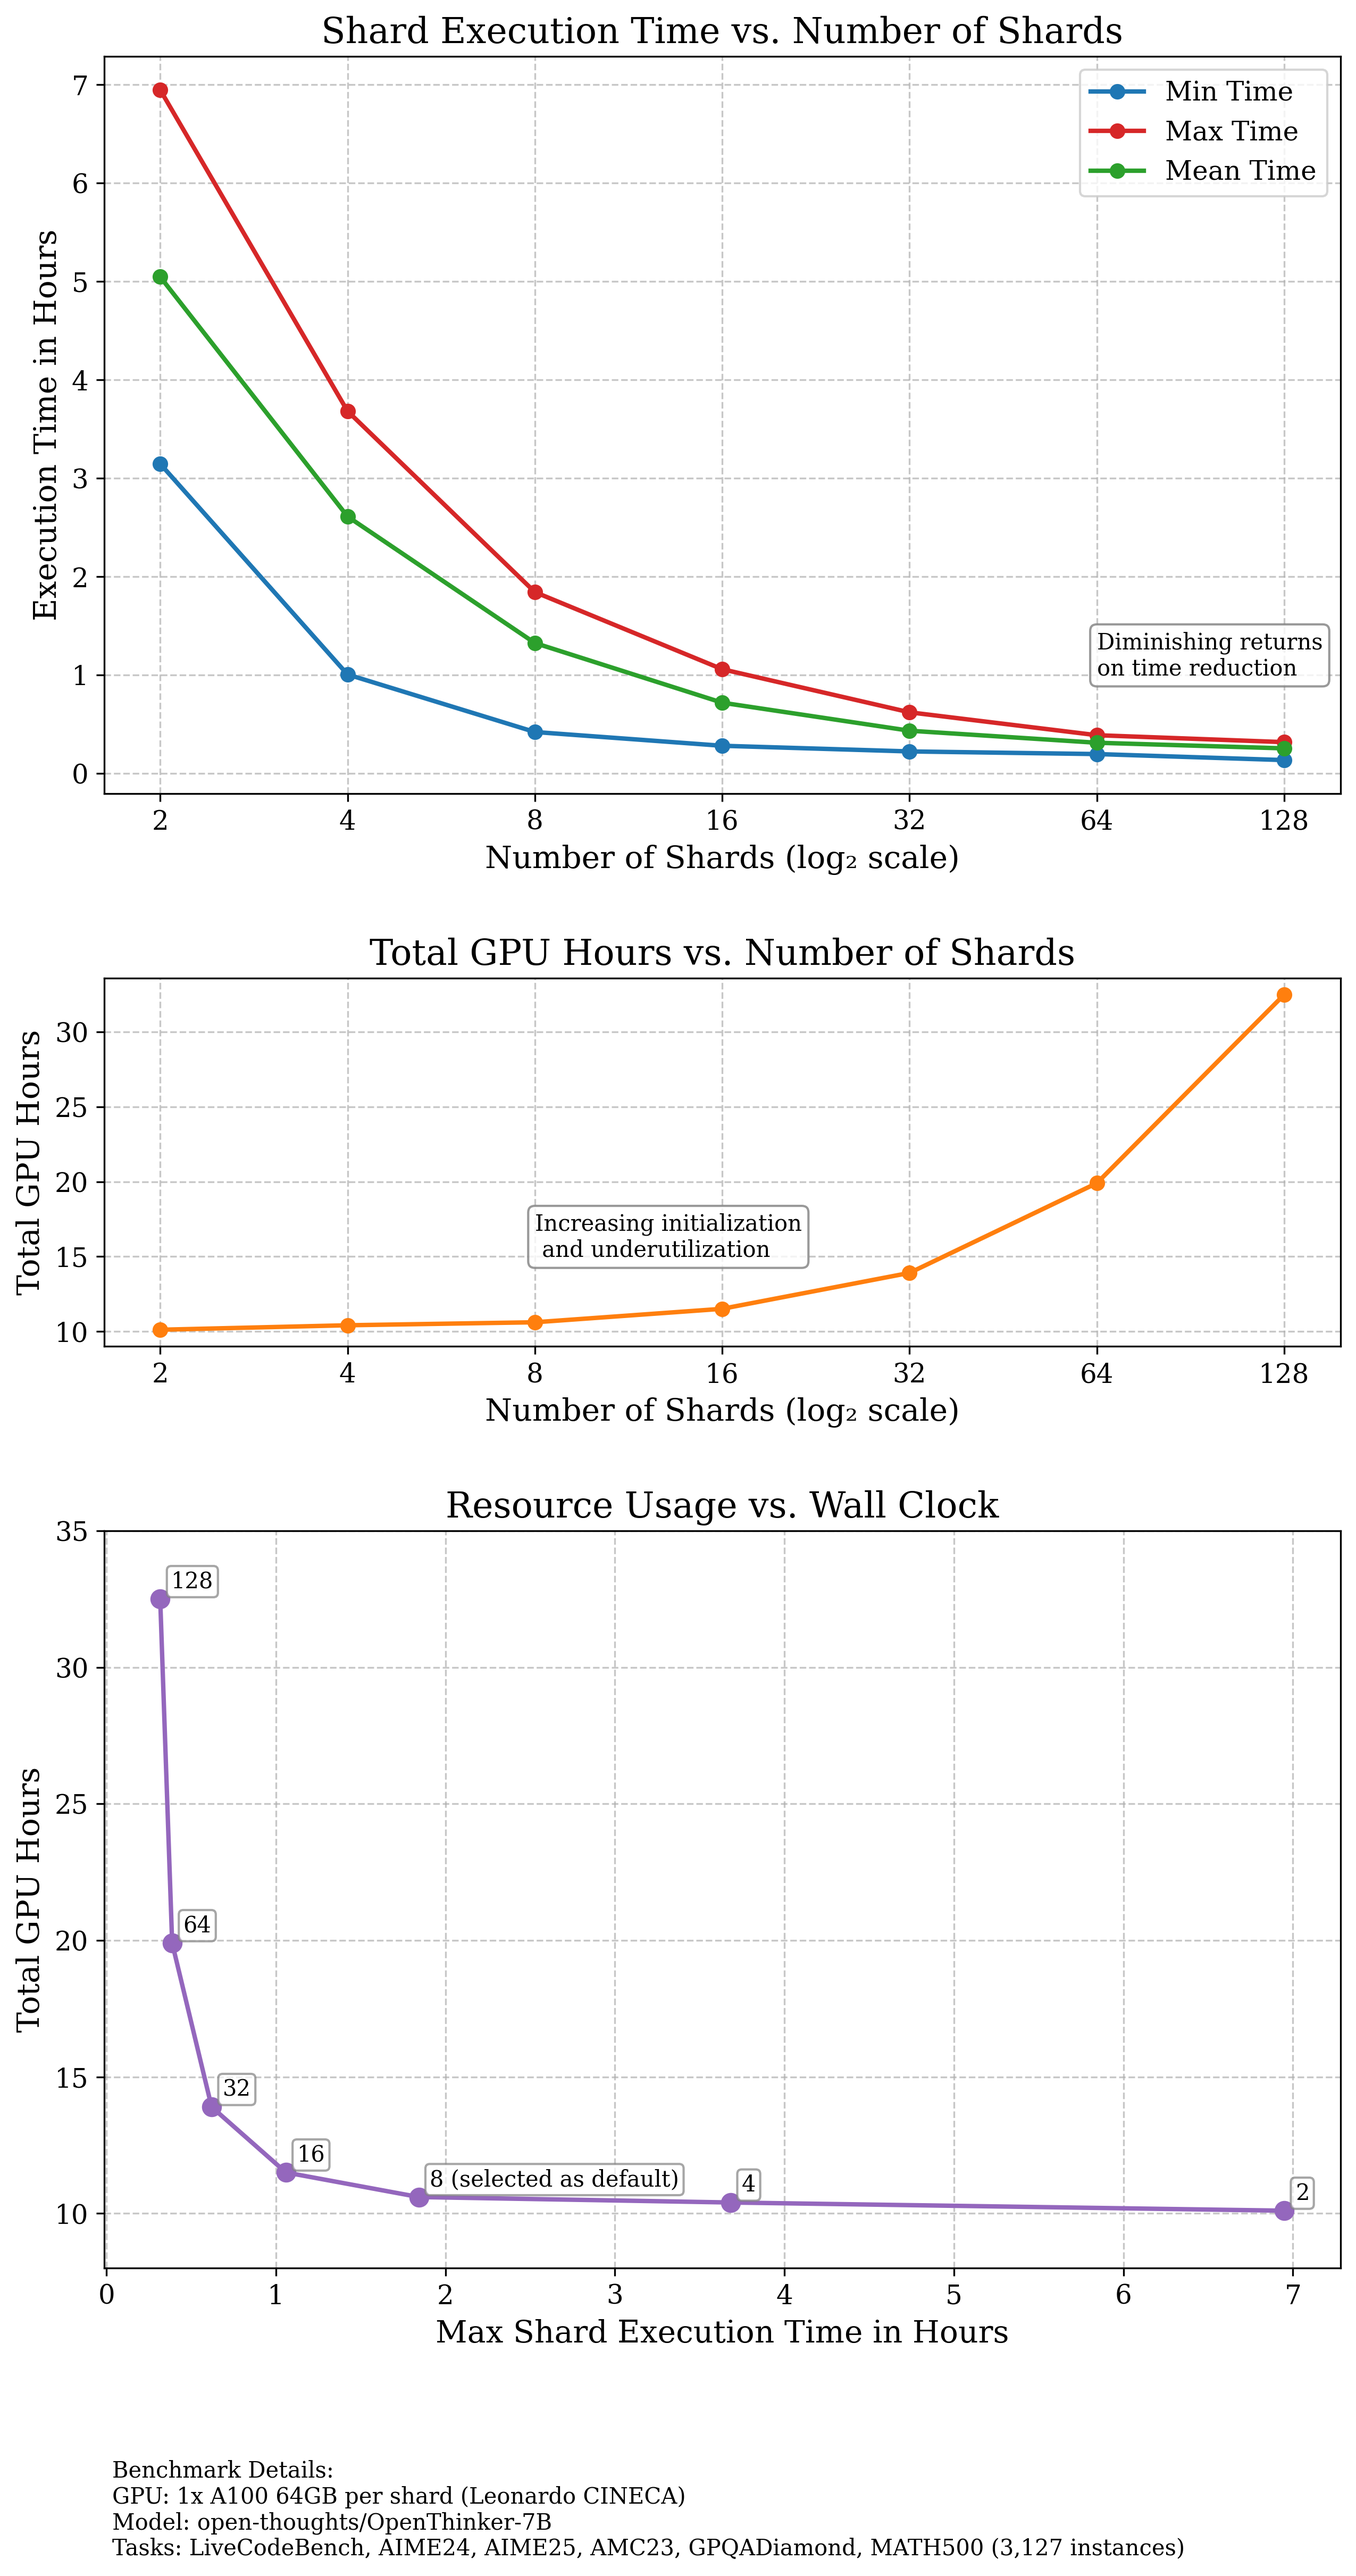
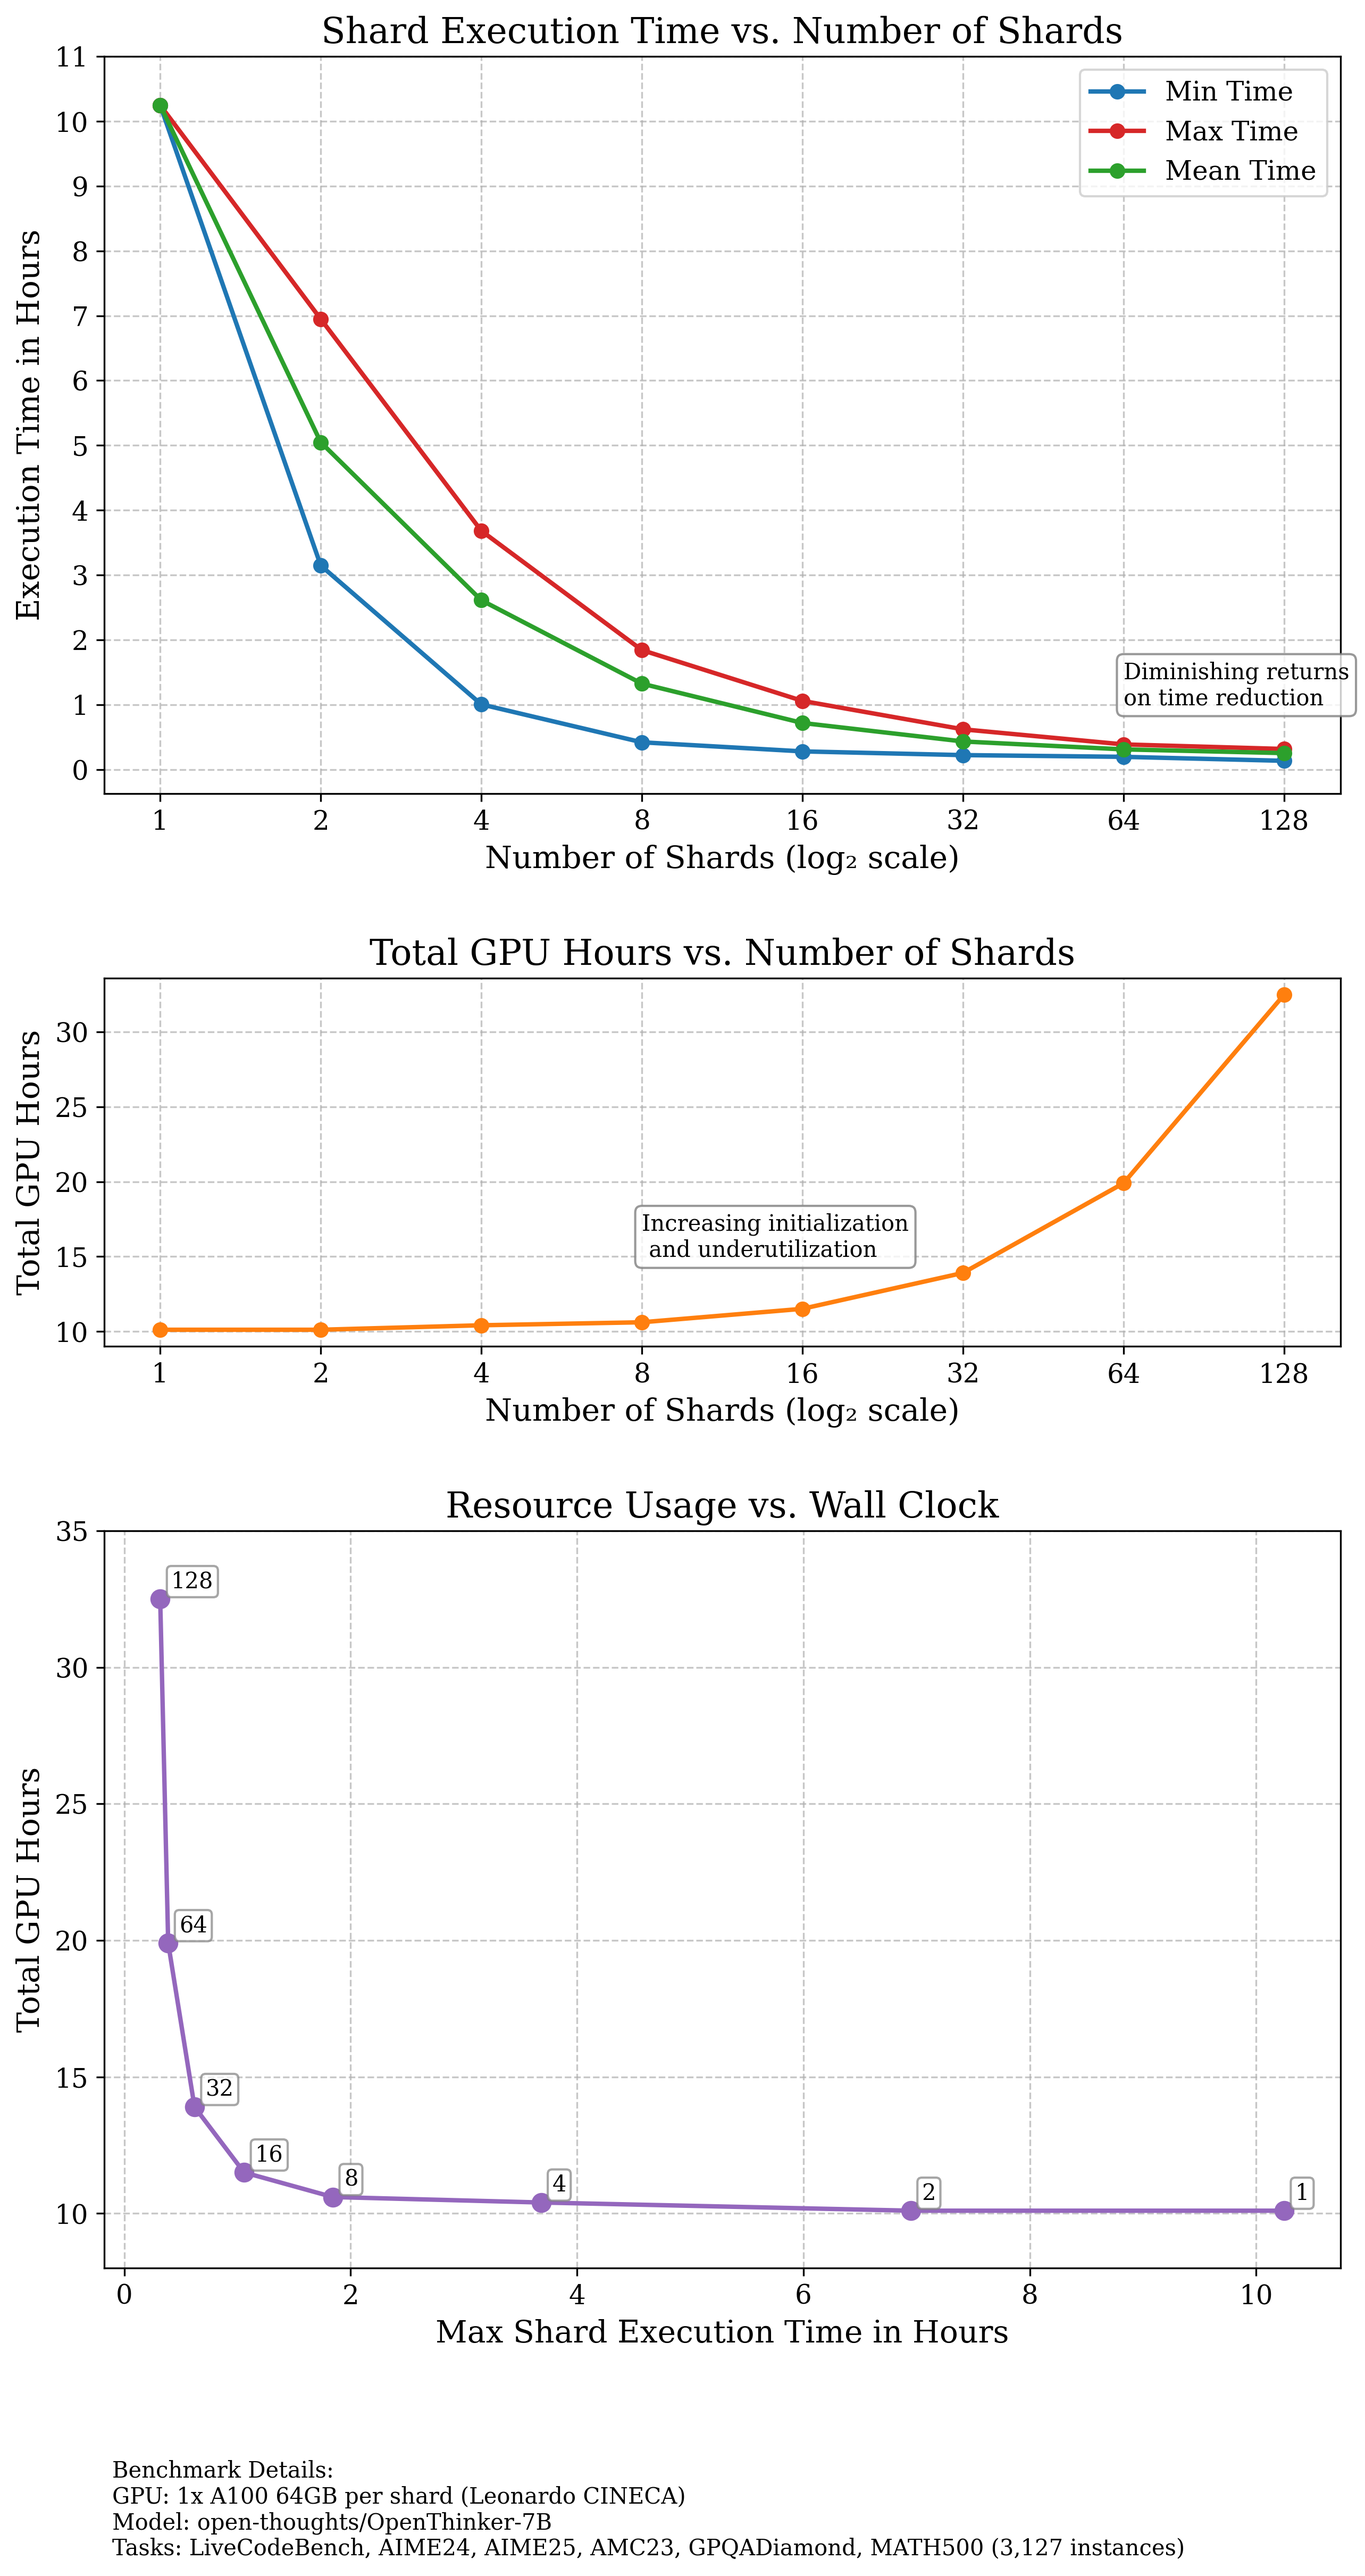
update graph

diff --git a/eval/distributed/benchmark_plot.py b/eval/distributed/benchmark_plot.py
@@ -14,11 +14,11 @@ def time_to_minutes(time_str):
 
 
 # Data from the benchmarks
-shards = [2, 4, 8, 16, 32, 64, 128]
-min_times = ["03:08:48", "01:00:18", "00:25:12", "00:16:48", "00:13:21", "00:11:45", "00:08:04"]
-max_times = ["06:56:54", "03:40:57", "01:50:33", "01:03:31", "00:37:13", "00:23:15", "00:19:01"]
-mean_times = ["05:02:51", "02:36:41", "01:19:29", "00:43:05", "00:25:59", "00:18:39", "00:15:13"]
-gpu_hours = [10.1, 10.4, 10.6, 11.5, 13.9, 19.9, 32.5]
+shards = [1, 2, 4, 8, 16, 32, 64, 128]
+min_times = ["10:14:50", "03:08:48", "01:00:18", "00:25:12", "00:16:48", "00:13:21", "00:11:45", "00:08:04"]
+max_times = ["10:14:50", "06:56:54", "03:40:57", "01:50:33", "01:03:31", "00:37:13", "00:23:15", "00:19:01"]
+mean_times = ["10:14:50", "05:02:51", "02:36:41", "01:19:29", "00:43:05", "00:25:59", "00:18:39", "00:15:13"]
+gpu_hours = [10.1, 10.1, 10.4, 10.6, 11.5, 13.9, 19.9, 32.5]
 
 # Convert times to minutes
 min_times_min = [time_to_minutes(t) for t in min_times]
@@ -107,8 +107,7 @@ ax2.annotate(
 ax3.plot(max_times_hours, gpu_hours, "o-", color="#9467bd", linewidth=2, markersize=8)
 
 # Add shard number annotations to each point
-for i, (x, y, s) in enumerate(zip(max_times_hours, gpu_hours, shards)):
-    label = f"{s} (selected as default)" if s == 8 else f"{s}"
+for i, (x, y, label) in enumerate(zip(max_times_hours, gpu_hours, shards)):
     ax3.annotate(
         label,
         xy=(x, y),

diff --git a/eval/distributed/SETUP_LEONARDO.md b/eval/distributed/SETUP_LEONARDO.md
@@ -131,16 +131,16 @@ Our benchmarks on Leonardo with a standard reasoning evaluation workload show:
 
 <img src="./benchmarking_leonardo.png" alt="Benchmarking Example" width="50%"/>
 
-| **Shards** | **Max Time** | **Min Time** | **Mean Time** | **Total GPU Hours** | **HuggingFace Link** |
-|------------|--------------|--------------|---------------|---------------------|----------------------|
-| 128        | 00:19:01     | 00:08:04     | 00:15:13      | 32.5                | [03-10-25_06-59-06](https://huggingface.co/datasets/mlfoundations-dev/OpenThinker-7B_eval_03-10-25_06-59-06_0981) |
-| 64         | 00:23:15     | 00:11:45     | 00:18:39      | 19.9                | [03-10-25_06-54-44](https://huggingface.co/datasets/mlfoundations-dev/OpenThinker-7B_eval_03-10-25_06-54-44_0981) |
-| 32         | 00:37:13     | 00:13:21     | 00:25:59      | 13.9                | [03-10-25_06-55-57](https://huggingface.co/datasets/mlfoundations-dev/OpenThinker-7B_eval_03-10-25_06-55-57_0981) |
-| 16         | 01:03:31     | 00:16:48     | 00:43:05      | 11.5                | [03-10-25_06-56-31](https://huggingface.co/datasets/mlfoundations-dev/OpenThinker-7B_eval_03-10-25_06-56-31_0981) |
-| 8          | 01:50:33     | 00:25:12     | 01:19:29      | 10.6                | [03-10-25_06-56-40](https://huggingface.co/datasets/mlfoundations-dev/OpenThinker-7B_eval_03-10-25_06-56-40_0981) |
-| 4          | 03:40:57     | 01:00:18     | 02:36:41      | 10.4                | [03-10-25_06-57-11](https://huggingface.co/datasets/mlfoundations-dev/OpenThinker-7B_eval_03-10-25_06-57-11_0981) |
-| 2          | 06:56:54     | 03:08:48     | 05:02:51      | 10.1                | [03-10-25_06-57-20](https://huggingface.co/datasets/mlfoundations-dev/OpenThinker-7B_eval_03-10-25_06-57-20_0981) |
-| 1          | 10:14:50     | 10:14:50     | 10:14:50      | 10.2                | [03-10-25_08-29-49](https://huggingface.co/datasets/mlfoundations-dev/OpenThinker-7B_eval_03-10-25_08-29-49_0981) |
+| **Shards** | **Max Time** | **Min Time** | **Mean Time** | **Total GPU Hours** | **Huggingface** |
+|------------|--------------|--------------|---------------|---------------------|-----------------|
+| 128        | 00:19:01     | 00:08:04     | 00:15:13      | 32.5                | [06:59:06](https://huggingface.co/datasets/mlfoundations-dev/OpenThinker-7B_eval_03-10-25_06-59-06_0981) |
+| 64         | 00:23:15     | 00:11:45     | 00:18:39      | 19.9                | [06:54:44](https://huggingface.co/datasets/mlfoundations-dev/OpenThinker-7B_eval_03-10-25_06-54-44_0981) |
+| 32         | 00:37:13     | 00:13:21     | 00:25:59      | 13.9                | [06:55:57](https://huggingface.co/datasets/mlfoundations-dev/OpenThinker-7B_eval_03-10-25_06-55-57_0981) |
+| 16         | 01:03:31     | 00:16:48     | 00:43:05      | 11.5                | [06:56:31](https://huggingface.co/datasets/mlfoundations-dev/OpenThinker-7B_eval_03-10-25_06-56-31_0981) |
+| 8          | 01:50:33     | 00:25:12     | 01:19:29      | 10.6                | [06:56:40](https://huggingface.co/datasets/mlfoundations-dev/OpenThinker-7B_eval_03-10-25_06-56-40_0981) |
+| 4          | 03:40:57     | 01:00:18     | 02:36:41      | 10.4                | [06:57:11](https://huggingface.co/datasets/mlfoundations-dev/OpenThinker-7B_eval_03-10-25_06-57-11_0981) |
+| 2          | 06:56:54     | 03:08:48     | 05:02:51      | 10.1                | [06:57:20](https://huggingface.co/datasets/mlfoundations-dev/OpenThinker-7B_eval_03-10-25_06-57-20_0981) |
+| 1          | 10:14:50     | 10:14:50     | 10:14:50      | 10.2                | [08:29:49](https://huggingface.co/datasets/mlfoundations-dev/OpenThinker-7B_eval_03-10-25_08-29-49_0981) |
 
 Key insights from benchmarking:
 - 8 shards provides a good balance between execution time and GPU efficiency
